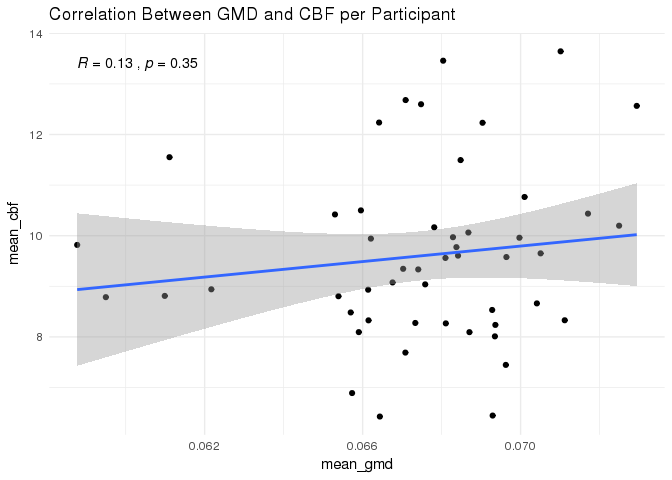
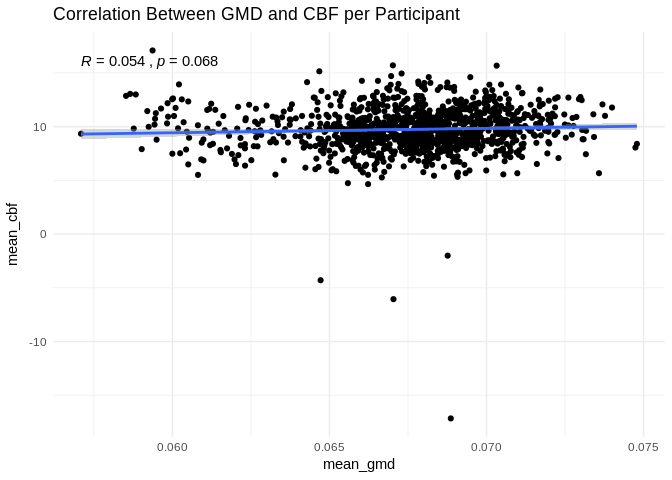
correlation with full sample

diff --git a/code/Correlations/CorrelationPlots.md b/code/Correlations/CorrelationPlots.md
@@ -3,7 +3,7 @@ GMD Correlation Plots
 Tinashe M. Tapera
 2018-02-04
 
-``` {.r}
+``` r
 suppressPackageStartupMessages({
   library(tidyr, quietly = TRUE)
   library(dplyr, quietly = TRUE)
@@ -15,25 +15,8 @@ suppressPackageStartupMessages({
   library(purrr, quietly = TRUE)
   library(ggpubr, quietly = TRUE)
 })
-```
-
-    ## Warning in .doLoadActions(where, attach): trying to execute load actions
-    ## without 'methods' package
-
-    ## Warning: replacing previous import by 'methods::slot<-' when loading
-    ## 'oro.nifti'
-
-    ## Warning: replacing previous import by 'methods::as' when loading
-    ## 'oro.nifti'
-
-    ## Warning: replacing previous import by 'methods::slotNames' when loading
-    ## 'oro.nifti'
-
-    ## Warning: package 'ggpubr' was built under R version 3.4.1
-
-``` {.r}
 set.seed(1000)
-SAMPLE <- TRUE # sample the full data if memory is limited e.g. not in qsub
+SAMPLE <- FALSE # sample the full data if memory is limited e.g. not in qsub
 ```
 
 Introduction
@@ -41,7 +24,7 @@ Introduction
 
 Here we visualise the relationship between voxelwise GMD values and CBF, Alff, and Reho in the PNC sample for ISLA. To start, a demonstration of how to create mean measures from NIfTI images.
 
-``` {.r}
+``` r
 gmd_path <- "/data/joy/BBL/studies/pnc/n1601_dataFreeze/neuroimaging/t1struct/voxelwiseMaps_gmd"
 
 gmd_example <-
@@ -58,16 +41,16 @@ print(paste0("The mean GMD for this participant is ", round(mean(img_dat), 5)))
 
 We'll use the `purrr` package to map this process.
 
-GMD\~CBF
-========
+GMD~CBF
+=======
 
 First, calculate means for GMD
 
-``` {.r}
+``` r
 # get the sample
 cbf_sample <- read.csv("/data/jux/BBL/projects/isla/data/cbfSample.csv") %>%
   select(-X) %>%
-  { if( SAMPLE ) sample_n(., 50) } %>%
+  { if( SAMPLE ) sample_n(., 50) else .} %>%
   {.}
 
 # read in the images
@@ -84,7 +67,7 @@ gmd_images <-
 # calculate means
 gmd_images <- gmd_images %>%
   mutate(
-    mean_gmd = map(nifti, .f = function(img){
+    mean_gmd = purrr::map(nifti, .f = function(img){
       dat <- img_data(img)
       return(mean(dat))
     })) %>%
@@ -94,7 +77,7 @@ gmd_images <- gmd_images %>%
 
 And then do the same for CBF
 
-``` {.r}
+``` r
 # read in the images
 cbf_path <- "/data/joy/BBL/studies/pnc/n1601_dataFreeze/neuroimaging/asl/voxelwiseMaps_cbf"
 
@@ -121,7 +104,7 @@ cbf_images <- cbf_images %>%
 
 Now, join the means and plot
 
-``` {.r}
+``` r
 cbf_images %>%
   left_join(gmd_images, by = "scanid") %>%
   select(mean_gmd, mean_cbf) %>%
@@ -138,14 +121,14 @@ cbf_images %>%
 
 Using the same method, we can calculate the correlation between GMD and Alff, and GMD and Reho
 
-GMD\~Alff
-=========
+GMD~Alff
+========
 
-``` {.r}
+``` r
 # get the sample
 rest_sample <- read.csv("/data/jux/BBL/projects/isla/data/restSample.csv") %>%
   select(-X) %>%
-  { if( SAMPLE ) sample_n(., 50) } %>%
+  { if( SAMPLE ) sample_n(., 50) else .} %>%
   {.}
 # read in the images
 gmd_images <-
@@ -194,7 +177,7 @@ alff_images <- alff_images %>%
 
 Now, join the means and plot
 
-``` {.r}
+``` r
 alff_images %>%
   left_join(gmd_images, by = "scanid") %>%
   select(mean_gmd, mean_alff) %>%
@@ -209,10 +192,10 @@ alff_images %>%
 
 ![](CorrelationPlots_files/figure-markdown_github/unnamed-chunk-6-1.png)
 
-' GMD\~Reho
-===========
+GMD~Reho
+========
 
-``` {.r}
+``` r
 # read in the images
 reho_path <- "/data/joy/BBL/studies/pnc/n1601_dataFreeze/neuroimaging/rest/voxelwiseMaps_reho"
 
@@ -239,7 +222,7 @@ reho_images <- reho_images %>%
 
 Now, join the means and plot
 
-``` {.r}
+``` r
 reho_images %>%
   left_join(gmd_images, by = "scanid") %>%
   select(mean_gmd, mean_reho) %>%
@@ -254,15 +237,17 @@ reho_images %>%
 
 ![](CorrelationPlots_files/figure-markdown_github/unnamed-chunk-8-1.png)
 
-Done! Session info:
+Done!
 
-``` {.r}
+Session info:
+
+``` r
 print(R.version.string)
 ```
 
-    ## [1] "R version 3.2.3 (2015-12-10)"
+    ## [1] "R version 3.4.1 (2017-06-30)"
 
-``` {.r}
+``` r
 print(paste("Updated:", format(Sys.time(), "%Y-%m-%d")))
 ```
 
